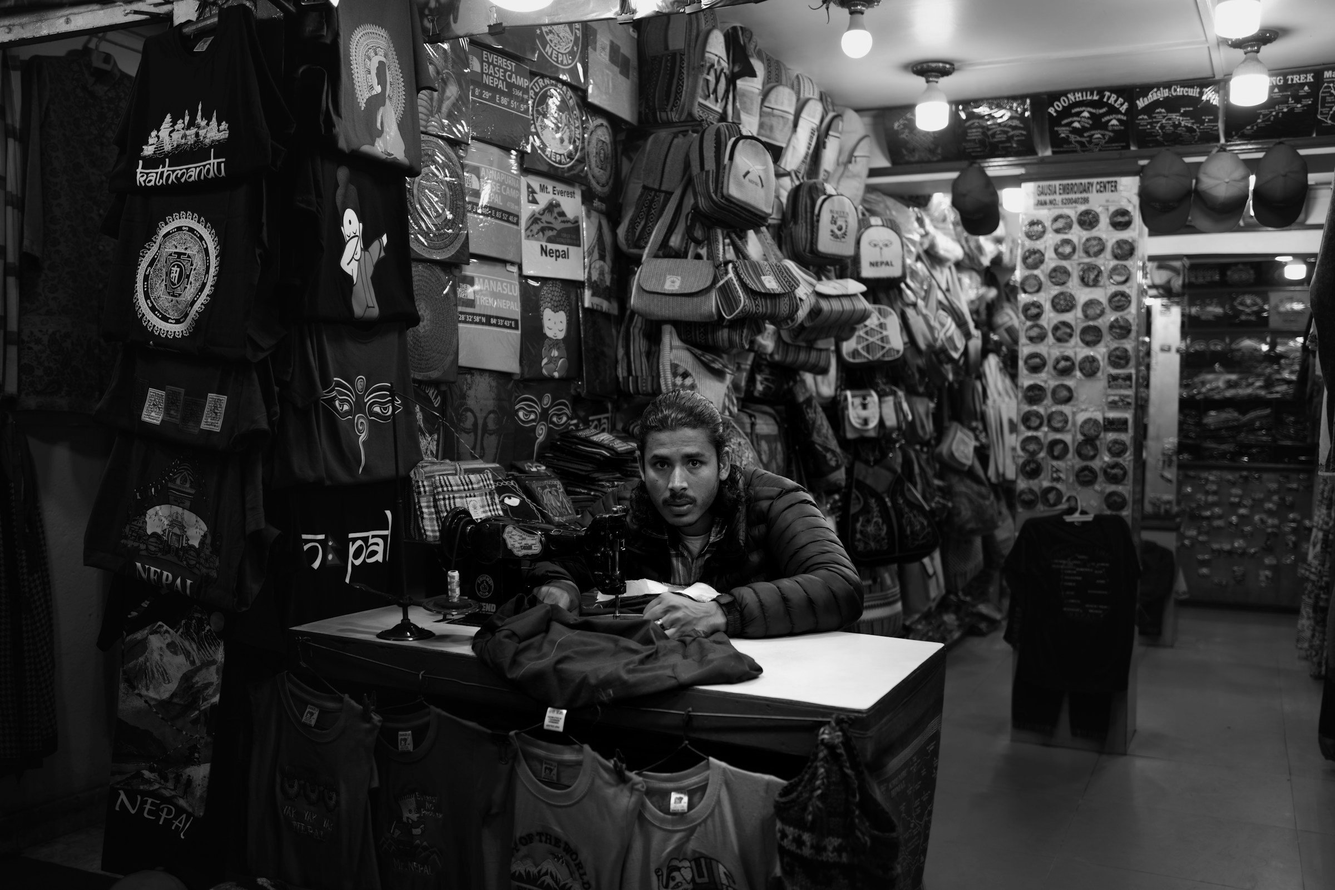
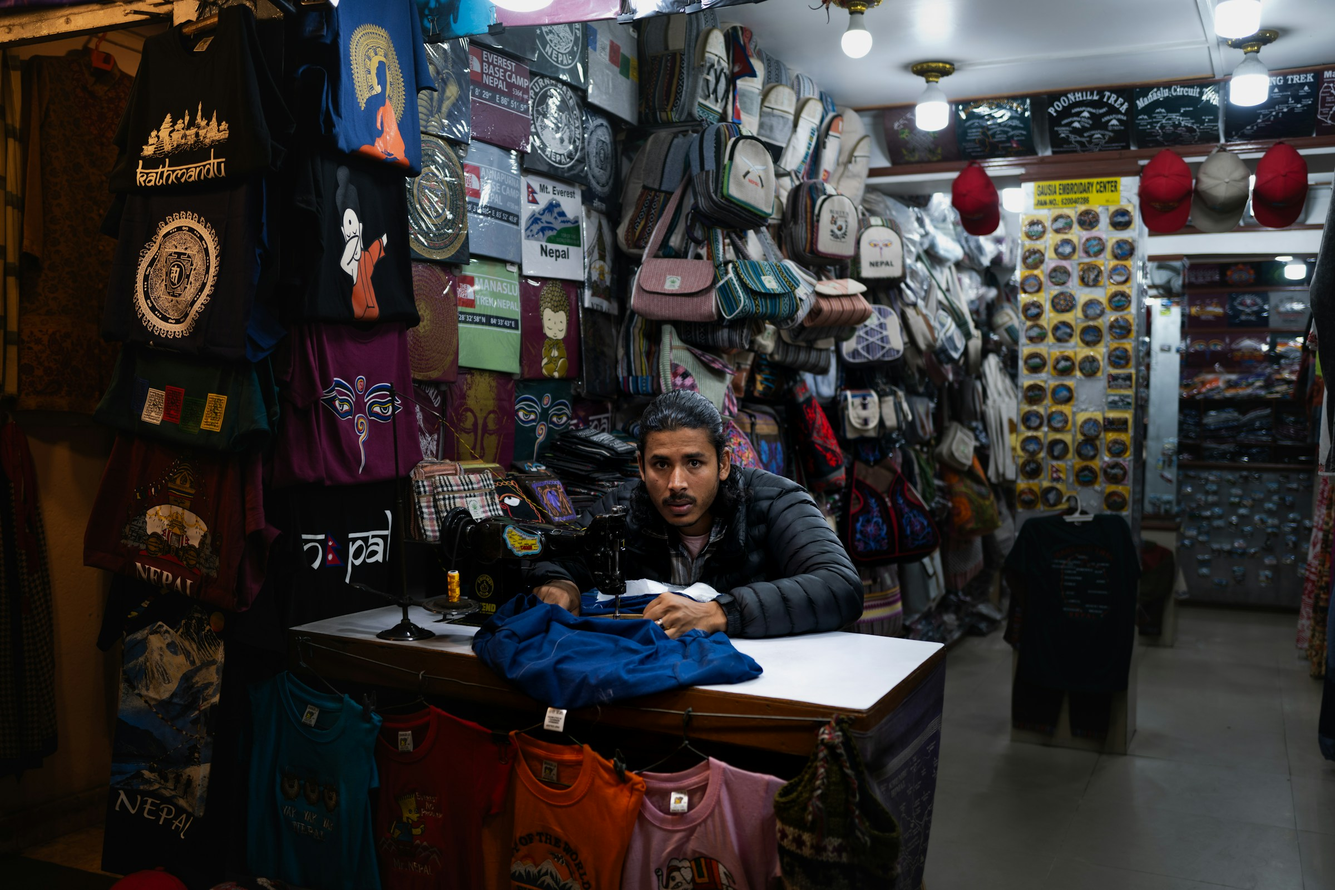
Design: no scroll fading, stronger contrast, colour photos

diff --git a/src/styles/motion.css b/src/styles/motion.css
@@ -16,29 +16,4 @@
      on load, in the order given by --d. CSS only, so nothing waits on JS. */
   [data-enter] { animation: fade-up 700ms cubic-bezier(0.16, 1, 0.3, 1) both; animation-delay: calc(var(--d, 0) * 80ms + 60ms); }
   @keyframes settle { from { opacity: 0; transform: scale(0.94); } to { opacity: 1; transform: none; } }
-
-  @supports (animation-timeline: view()) {
-    /* Hero drifts away as you scroll past it. */
-    .hero .copy { animation: hero-copy-out linear both; animation-timeline: scroll(root); animation-range: 0 70vh; }
-    .hero .orb-btn { animation: hero-stage-out linear both; animation-timeline: scroll(root); animation-range: 0 80vh; }
-    @keyframes hero-copy-out { to { transform: translateY(-60px); opacity: 0.35; } }
-    @keyframes hero-stage-out { to { transform: translateY(40px) scale(0.92); } }
-
-    /* Section headings slide up into place as they enter. */
-    .section > .wrap > h2, .how h2, .cta h2 {
-      animation: heading-in linear both; animation-timeline: view(); animation-range: entry 0% entry 90%;
-    }
-    @keyframes heading-in { from { opacity: 0; transform: translateY(36px); } to { opacity: 1; transform: none; } }
-
-    /* Steps: numbers climb at their own pace, the rule draws across. */
-    .how li { animation: step-in linear both; animation-timeline: view(); animation-range: entry 10% cover 35%; }
-    .how li:nth-child(2) { animation-range: entry 25% cover 42%; }
-    .how li:nth-child(3) { animation-range: entry 40% cover 50%; }
-    @keyframes step-in { from { opacity: 0; transform: translateY(70px); } to { opacity: 1; transform: none; } }
-
-    /* The closing band opens out from the page edges. */
-    .cta { animation: band-open linear both; animation-timeline: view(); animation-range: entry 0% entry 70%; }
-    @keyframes band-open { from { clip-path: inset(0 4% round 16px); } to { clip-path: inset(0 0 round 0); } }
-
-  }
 }

diff --git a/src/styles/tokens.css b/src/styles/tokens.css
@@ -1,11 +1,11 @@
 /* LunaCam tokens. Every value here is listed in DESIGN.md; nothing outside it. */
 :root {
   --canvas: #FFFFFF;
-  --surface: #F5F5F5;
-  --subtle: #EBEBEB;
-  --line: #D4D4D4;
+  --surface: #F2F2F2;
+  --subtle: #E4E4E4;
+  --line: #B8B8B8;
   --ink: #0A0A0A;
-  --ink-muted: #404040;
+  --ink-muted: #262626;
   --brand: #0A0A0A;
   --on-brand: #FFFFFF;
   --link: #0A0A0A;
@@ -13,8 +13,8 @@
   --on-lime: #0A0A0A;
   --stage: #0A0A0A;
   --stage-ink: #FFFFFF;
-  --stage-muted: #BFBFBF;
-  --stage-line: #3D3D3D;
+  --stage-muted: #E0E0E0;
+  --stage-line: #5C5C5C;
   --error: #B3261E;
 
   /* Inter for everything, as in the LunaCam app. */

diff --git a/DESIGN.md b/DESIGN.md
@@ -3,7 +3,7 @@
 Single source of truth for every value used in `src/`. A value in the code
 that isn't listed here is a bug: fix the code or extend this file. The site is
 black and white (owner, 2026-10-10), with Inter for all text, as in the
-LunaCam app. Photos are converted to greyscale.
+LunaCam app. Photos stay in colour.
 
 ## No AI look
 
@@ -17,11 +17,11 @@ enforces what can be checked by code.
 | Token | Value | Use |
 |---|---|---|
 | `--canvas` | `#FFFFFF` | page background |
-| `--surface` | `#F5F5F5` | soft panels, forms, footer |
-| `--subtle` | `#EBEBEB` | quiet fills, hover |
-| `--line` | `#D4D4D4` | 1px borders |
+| `--surface` | `#F2F2F2` | soft panels, forms, footer |
+| `--subtle` | `#E4E4E4` | quiet fills, hover |
+| `--line` | `#B8B8B8` | 1px borders |
 | `--ink` | `#0A0A0A` | text |
-| `--ink-muted` | `#404040` | secondary text |
+| `--ink-muted` | `#262626` | secondary text |
 | `--brand` | `#0A0A0A` | primary buttons |
 | `--on-brand` | `#FFFFFF` | text on brand |
 | `--link` | `#0A0A0A` | links, focus ring, current page |
@@ -29,8 +29,8 @@ enforces what can be checked by code.
 | `--on-lime` | `#0A0A0A` | text on the accent |
 | `--stage` | `#0A0A0A` | the dark sections |
 | `--stage-ink` | `#FFFFFF` | text on stage |
-| `--stage-muted` | `#BFBFBF` | secondary text on stage |
-| `--stage-line` | `#3D3D3D` | borders on stage |
+| `--stage-muted` | `#E0E0E0` | secondary text on stage |
+| `--stage-line` | `#5C5C5C` | borders on stage |
 | `--error` | `#B3261E` | form errors |
 
 Print only: `#FFFFFF` background, `#000000` text.
@@ -64,6 +64,7 @@ Radius 8px (controls), 12px (panels). Inline code 4px. Borders 1px. No
 - Section entrance: opacity plus 8px translate, 250ms, only for content below
   the first screen, never hides content without JS.
 - Event lists reveal one line at a time when they scroll into view.
+- No scroll-linked fading or dimming: content is at full strength once it is on screen.
 - `prefers-reduced-motion: reduce` turns all of it off.
 
 ## Demos
